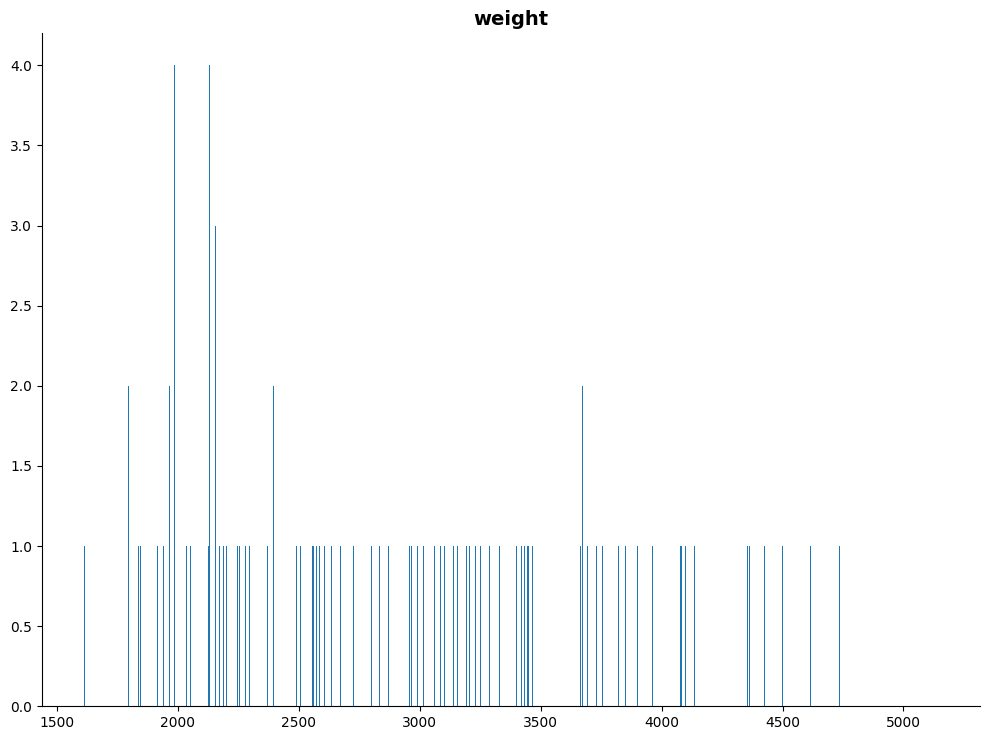
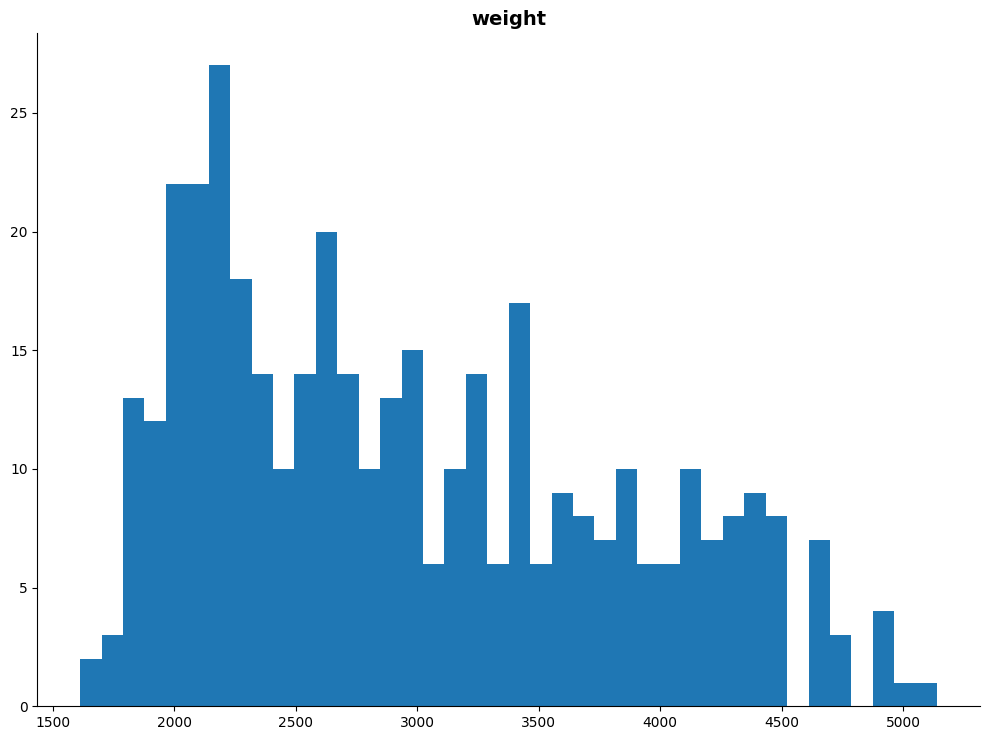
update

diff --git a/test.py b/test.py
@@ -11,6 +11,7 @@ import pandas as pd
 from pandas import DataFrame, Series
 import seaborn as sns
 import numpy as np
+import matplotlib.pyplot as plt
 
 ''' read_csv()
 The read_csv() function in pandas package parse an csv data as a DataFrame data structure. What's the endpoint of the data?
@@ -56,10 +57,9 @@ for x in carname_3: print(x, end=" | ")
 # missing values
 print("\n\n3.")
 data = data.dropna()
+
 drop_list = ['count', 'min', '25%', '50%', '75%', 'max']
-
 attribute_list = ['mpg', 'cylinders', 'displacement', 'horsepower', 'weight', 'model', 'origin']
-
 
 def add_range(df):
     df1 = df.describe()
@@ -72,42 +72,32 @@ for x in attribute_list:
     tmp = tmp.drop(labels= drop_list)
     print(tmp)
 
-
-# print("Mean, standard deviation and range of MPG:")
-# mpg_des = add_range(data["mpg"])
-# mpg_des = mpg_des.drop(labels= drop_list)
-# print(mpg_des)
-
-# print("\nMean, standard deviation and range of cylinders:")
-# cylinders_des = add_range(data["cylinders"])
-# cylinders_des = cylinders_des.drop(labels= drop_list)
-# print(cylinders_des)
-
-# print("\nMean, standard deviation and range of displacement:")
-# displacement_des = add_range(data["displacement"])
-# displacement_des = displacement_des.drop(labels= drop_list)
-# print(displacement_des)
-
-# print("\nMean, standard deviation and range of horsepower:")
-# horsepower_des = add_range(data["horsepower"])
-# horsepower_des = horsepower_des.drop(labels= drop_list)
-# print(horsepower_des)
-
-# print("\nMean, standard deviation and range of weight:")
-# weight_des = add_range(data["weight"])
-# weight_des = weight_des.drop(labels= drop_list)
-# print(weight_des)
-
-# print("\nMean, standard deviation and range of model:")
-# model_des = add_range(data["model"])
-# model_des = model_des.drop(labels= drop_list)
-# print(model_des)
-
-# print("\nMean, standard deviation and range of origin:")
-# origin_des = add_range(data["origin"])
-# origin_des = origin_des.drop(labels= drop_list)
-# print(origin_des)
-
 # 4. Plot histograms for each attribute. Pay attention to the appropriate choice of number of bins.
 # Write 2-3 sentences summarizing some interesting aspects of the data by looking at the histograms
 print("\n4.")
+
+n_bins = []
+
+
+for x in attribute_list:
+    tmp = data[x].describe()
+    h = 2 * (tmp.loc['75%'] - tmp.loc['25%']) * tmp.loc['count']**(-1/3)
+    n_bins.append((tmp.loc['max']-tmp.loc['min'])/h)
+
+
+for x in attribute_list:
+    fig_obj = plt.figure(figsize=(10, 7.5))
+    ''' Place an 2-D axis system on the Canvas '''
+    ax = plt.subplot(111)
+    ax.spines["bottom"].set_visible(True)  # Set the spines, or box bounds visibility
+    ax.spines["left"].set_visible(True)    
+    ax.spines['right'].set_visible(False)
+    ax.spines['top'].set_visible(False)
+    ''' Plot the histogram of '''
+    p = plt.hist(data[x], bins = 30)
+    plt.title(x, fontsize=14, fontweight='bold')
+    ''' Save figure '''
+    plt.tight_layout()
+    plt.savefig('./pics/'+x+'_histogram.png', bbox_inches='tight')
+
+# 5. 
